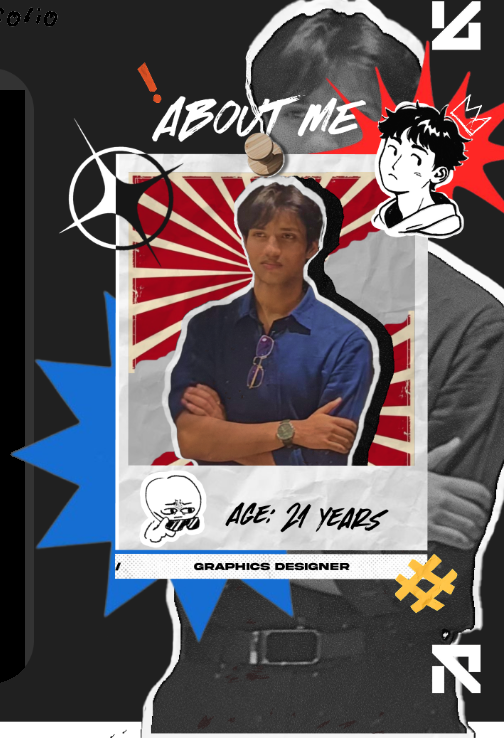
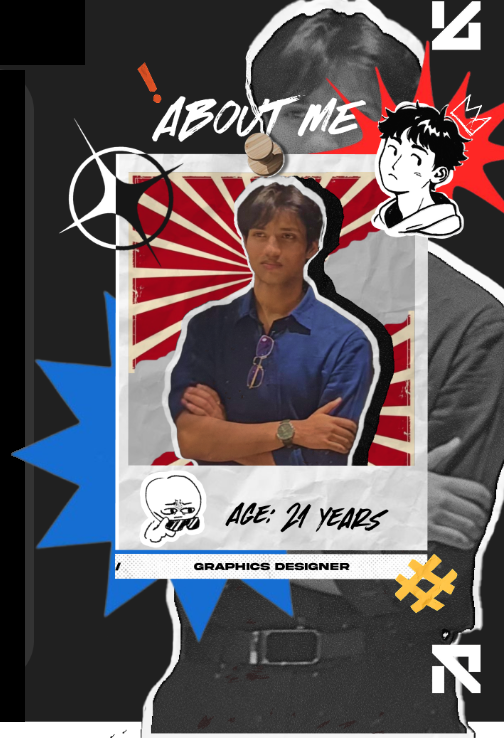
feat(about): add comic text bubble zoom on paragraph hover

Changed region(s): [[0.0, 0.0, 0.1786, 0.1247], [0.0, 0.9038, 0.0595, 0.9973]]

diff --git a/src/components/AboutSection.jsx b/src/components/AboutSection.jsx
@@ -1,5 +1,8 @@
-import aboutFullFrame from '../assets/about/about_full_frame.png'
-import aboutLeftCard from '../assets/about/about_left_card.png'
+import charThinking from '../assets/about/char_thinking_perfect.png'
+import charPointing from '../assets/about/char_pointing_perfect.png'
+import wordSince from '../assets/about/word_since.png'
+import wordAs from '../assets/about/word_as.png'
+import wordFlourishA from '../assets/about/word_flourish_a.png'
 import aboutRightCollage from '../assets/about/about_right_collage.png'
 
 export default function AboutSection() {
@@ -15,69 +18,205 @@ export default function AboutSection() {
         aria-hidden="true"
       />
 
-      <div className="relative w-full max-w-[1380px] mx-auto px-4 sm:px-6 md:px-8">
-        
-        {/* ================= DESKTOP / TABLET VIEW (md and up) ================= */}
-        <div className="hidden md:block w-full">
-          <div className="relative w-full max-w-[1240px] mx-auto aspect-[1024/768] rounded-[28px] lg:rounded-[36px] overflow-hidden shadow-[0_24px_70px_rgba(0,0,0,0.9)] border border-white/10 group transition-all duration-500 hover:border-white/20">
-            <img
-              src={aboutFullFrame}
-              alt="About Me - Om, UI/UX Designer, Illustrator, Artist based in Shillong, India. Age 21 Years."
-              className="w-full h-full object-cover lg:object-contain object-center select-none pointer-events-none transition-transform duration-700 ease-out group-hover:scale-[1.01]"
-            />
-          </div>
+      <div className="relative w-full max-w-[1280px] mx-auto px-4 sm:px-6 md:px-8">
+        {/* Top 'portfolio' cursive text */}
+        <div className="flex justify-center mb-6 sm:mb-8 md:mb-10">
+          <span className="font-script text-3xl sm:text-4xl md:text-5xl font-normal leading-none tracking-wide text-white lowercase drop-shadow-[0_2px_10px_rgba(0,0,0,0.9)]">
+            portfolio
+          </span>
         </div>
 
-        {/* ================= MOBILE VIEW (Stacked column) ================= */}
-        <div className="md:hidden flex flex-col items-center gap-8 w-full max-w-[500px] mx-auto">
-          {/* Top 'portfolio' cursive text */}
-          <div className="flex justify-center">
-            <span className="font-script text-3xl font-normal leading-none tracking-wide text-white lowercase drop-shadow-[0_2px_8px_rgba(0,0,0,0.8)]">
-              portfolio
-            </span>
+        {/* ================= MAIN ABOUT CONTENT GRID ================= */}
+        <div className="grid grid-cols-1 lg:grid-cols-12 gap-8 lg:gap-4 items-center">
+          
+          {/* LEFT INTERACTIVE CARD (Figma Frame Left Side) */}
+          <div className="lg:col-span-6 xl:col-span-6 w-full flex justify-center lg:justify-end z-10">
+            <div className="relative w-full max-w-[530px] bg-[#333333] rounded-[28px] sm:rounded-[36px] p-6 sm:p-8 lg:p-9 shadow-[0_24px_60px_rgba(0,0,0,0.9)] border border-white/10 flex flex-col justify-between">
+              
+              {/* Card Header: Title & Thinking Character */}
+              <div className="flex items-start justify-between gap-2">
+                <div className="flex flex-col">
+                  <h2 className="text-4xl sm:text-5xl lg:text-[54px] font-black text-white leading-none tracking-tight font-sans uppercase">
+                    Hello,
+                  </h2>
+                  <div className="flex items-baseline gap-2 mt-1 sm:mt-2">
+                    <span className="text-3xl sm:text-4xl lg:text-[44px] font-black text-white font-sans">
+                      i'm
+                    </span>
+                    <span className="text-3xl sm:text-4xl lg:text-[44px] font-black text-[#5694FD] font-sans tracking-tight">
+                      OM.
+                    </span>
+                  </div>
+                </div>
+
+                {/* Manga Thinking / Scheming Character */}
+                <div className="w-[115px] sm:w-[135px] lg:w-[150px] shrink-0 -mt-3 -mr-2 transition-transform duration-300 hover:scale-105 select-none">
+                  <img
+                    src={charThinking}
+                    alt="Scheming anime character thinking with hands folded"
+                    className="w-full h-auto object-contain pointer-events-none drop-shadow-md"
+                  />
+                </div>
+              </div>
+
+              {/* Tagline / Subtitle (Interactive Comic Bubble) */}
+              <div className="comic-bubble comic-bubble-tail-left p-3 sm:p-3.5 -mx-1 sm:-mx-2 mt-2 rounded-2xl cursor-default group">
+                <div className="flex items-center gap-2 text-xs sm:text-sm text-neutral-200 font-fredoka font-normal">
+                  <img
+                    src={wordFlourishA}
+                    alt="a"
+                    className="w-[14px] h-[16px] object-contain inline-block shrink-0 -mb-0.5"
+                  />
+                  <span>
+                    ui-ux designer / illustrator / artist based in{' '}
+                    <strong className="font-semibold text-white">SHILLONG , INDIA.</strong>
+                  </span>
+                </div>
+              </div>
+
+              {/* Middle Section: Pointing Character (left) + Paras 1 & 2 (right) */}
+              <div className="grid grid-cols-12 gap-3 sm:gap-4 items-center my-3 sm:my-4">
+                {/* Pointing Character */}
+                <div className="col-span-4 flex justify-center items-center">
+                  <img
+                    src={charPointing}
+                    alt="Anime boy character pointing index finger up with enthusiasm"
+                    className="w-full max-w-[115px] sm:max-w-[130px] h-auto object-contain select-none pointer-events-none transition-transform duration-300 hover:scale-105"
+                  />
+                </div>
+
+                {/* Description Paragraph 1 & 2 with Comic Bubble Zoom */}
+                <div className="col-span-8 flex flex-col gap-2.5 sm:gap-3">
+                  {/* Paragraph 1 */}
+                  <div
+                    tabIndex={0}
+                    role="article"
+                    aria-label="Description paragraph 1"
+                    className="comic-bubble comic-bubble-tail-left p-3 sm:p-3.5 rounded-2xl cursor-default text-xs sm:text-[13px] lg:text-sm text-neutral-200 font-fredoka font-light leading-snug outline-none focus:scale-105 focus:bg-[#222428] focus:border-white focus:shadow-[4px_4px_0px_#000]"
+                  >
+                    <div className="flex items-baseline gap-1.5 flex-wrap">
+                      <img
+                        src={wordSince}
+                        alt="SINCE"
+                        className="h-[18px] sm:h-[20px] object-contain inline-block align-baseline -mb-1 shrink-0"
+                      />
+                      <span>
+                        8th grade my knack for{' '}
+                        <strong className="font-bold text-white">illustrations</strong> ,{' '}
+                        <strong className="font-bold text-white">character design</strong> , and
+                        anything related to design has been constantly growing.
+                      </span>
+                    </div>
+                  </div>
+
+                  {/* Paragraph 2 */}
+                  <div
+                    tabIndex={0}
+                    role="article"
+                    aria-label="Description paragraph 2"
+                    className="comic-bubble comic-bubble-tail-left p-3 sm:p-3.5 rounded-2xl cursor-default text-xs sm:text-[13px] lg:text-sm text-neutral-200 font-fredoka font-light leading-snug outline-none focus:scale-105 focus:bg-[#222428] focus:border-white focus:shadow-[4px_4px_0px_#000]"
+                  >
+                    <span>
+                      For a long time I was into character designing , then started exploring other
+                      areas , such as (
+                      <strong className="font-bold text-white">
+                        Ui-Ux design / graphic design / illustrations / video editing / 3d design / product design / etc
+                      </strong>
+                      ).
+                    </span>
+                  </div>
+                </div>
+              </div>
+
+              {/* Bottom Section: Paragraphs 3, 4, 5 (Each with Comic Text Bubble Zoom) */}
+              <div className="flex flex-col gap-2.5 sm:gap-3 mt-1">
+                {/* Paragraph 3 */}
+                <div
+                  tabIndex={0}
+                  role="article"
+                  aria-label="Description paragraph 3"
+                  className="comic-bubble comic-bubble-tail-left p-3 sm:p-3.5 rounded-2xl cursor-default text-xs sm:text-[13px] lg:text-sm text-neutral-200 font-fredoka font-light leading-snug outline-none focus:scale-105 focus:bg-[#222428] focus:border-white focus:shadow-[4px_4px_0px_#000]"
+                >
+                  <div className="flex items-baseline gap-2">
+                    <img
+                      src={wordAs}
+                      alt="as"
+                      className="h-[16px] sm:h-[18px] object-contain inline-block align-baseline -mb-0.5 shrink-0"
+                    />
+                    <span>
+                      a new and curious artist, I'm always exploring different styles and mediums , it's
+                      how I learn and evolve.
+                    </span>
+                  </div>
+                </div>
+
+                {/* Paragraph 4 */}
+                <div
+                  tabIndex={0}
+                  role="article"
+                  aria-label="Description paragraph 4"
+                  className="comic-bubble comic-bubble-tail-left p-3 sm:p-3.5 rounded-2xl cursor-default text-xs sm:text-[13px] lg:text-sm text-neutral-200 font-fredoka font-light leading-snug outline-none focus:scale-105 focus:bg-[#222428] focus:border-white focus:shadow-[4px_4px_0px_#000]"
+                >
+                  <span>
+                    I love experimenting, taking inspiration from everywhere, and turning simple
+                    ideas into something visual and expressive.
+                  </span>
+                </div>
+
+                {/* Paragraph 5 */}
+                <div
+                  tabIndex={0}
+                  role="article"
+                  aria-label="Description paragraph 5"
+                  className="comic-bubble comic-bubble-tail-left p-3 sm:p-3.5 rounded-2xl cursor-default text-xs sm:text-[13px] lg:text-sm text-neutral-200 font-fredoka font-light leading-snug outline-none focus:scale-105 focus:bg-[#222428] focus:border-white focus:shadow-[4px_4px_0px_#000]"
+                >
+                  <span>
+                    I'm also really into sports and staying active. It helps me keep my energy up
+                    and my creativity flowing. I like to think the discipline from sports shows up
+                    in my art too.
+                  </span>
+                </div>
+              </div>
+
+            </div>
           </div>
 
-          {/* Left Card */}
-          <div className="w-full rounded-[28px] overflow-hidden shadow-[0_16px_40px_rgba(0,0,0,0.8)] border border-white/10">
-            <img
-              src={aboutLeftCard}
-              alt="Hello, i'm OM. UI/UX designer, illustrator, artist based in Shillong, India."
-              className="w-full h-auto object-contain select-none pointer-events-none"
-            />
+          {/* RIGHT COLLAGE (Figma Frame Right Side) */}
+          <div className="lg:col-span-6 xl:col-span-6 w-full flex justify-center lg:justify-start lg:-ml-6 xl:-ml-10 z-0">
+            <div className="relative w-full max-w-[500px] lg:max-w-[540px] drop-shadow-[0_24px_60px_rgba(0,0,0,0.9)] transition-transform duration-500 hover:scale-[1.01]">
+              <img
+                src={aboutRightCollage}
+                alt="About Me - Om, 21 years old Graphics Designer collage with Polaroid photo, sunburst rays, stickers and anime doodles"
+                className="w-full h-auto object-contain select-none pointer-events-none"
+              />
+            </div>
           </div>
 
-          {/* Right Collage */}
-          <div className="w-full drop-shadow-[0_20px_50px_rgba(0,0,0,0.9)]">
-            <img
-              src={aboutRightCollage}
-              alt="About Me - Om, 21 years old Graphics Designer collage"
-              className="w-full h-auto object-contain select-none pointer-events-none"
-            />
-          </div>
         </div>
 
-        {/* ================= SCREEN READER / SEO METADATA ================= */}
+        {/* Screen Reader & SEO Metadata */}
         <div className="sr-only">
           <h2>About Me — Hello, i'm OM.</h2>
-          <p>UI/UX designer, illustrator, and artist based in Shillong, India.</p>
+          <p>ui-ux designer / illustrator / artist based in SHILLONG , INDIA.</p>
           <p>
-            Since 8th grade my knack for illustrations, character design, and anything
-            related to design has been constantly growing.
+            SINCE 8th grade my knack for illustrations , character design , and anything related to
+            design has been constantly growing.
           </p>
           <p>
-            For a long time I was into character designing, then started exploring other
-            areas, such as UI/UX design, graphic design, illustrations, video editing,
-            3D design, and product design.
+            For a long time I was into character designing , then started exploring other areas ,
+            such as (Ui-Ux design / graphic design / illustrations / video editing / 3d design / product design / etc).
           </p>
           <p>
-            As a new and curious artist, I'm always exploring different styles and mediums;
-            it's how I learn and evolve. I love experimenting, taking inspiration from
-            everywhere, and turning simple ideas into something visual and expressive.
+            as a new and curious artist, I'm always exploring different styles and mediums , it's how
+            I learn and evolve.
           </p>
           <p>
-            I'm also really into sports and staying active. It helps me keep my energy up
-            and my creativity flowing. I like to think the discipline from sports shows up
-            in my art too.
+            I love experimenting, taking inspiration from everywhere, and turning simple ideas into
+            something visual and expressive.
+          </p>
+          <p>
+            I'm also really into sports and staying active. It helps me keep my energy up and my
+            creativity flowing. I like to think the discipline from sports shows up in my art too.
           </p>
           <p>Profile: Age 21 Years | Graphics Designer</p>
         </div>

diff --git a/src/index.css b/src/index.css
@@ -153,3 +153,64 @@
 .animate-spin-slow {
   animation: spin-slow 20s linear infinite;
 }
+
+/* Comic text bubble zoom effect */
+.comic-bubble {
+  position: relative;
+  border-radius: 1rem;
+  border: 2px solid transparent;
+  transition: transform 0.28s cubic-bezier(0.34, 1.56, 0.64, 1),
+              box-shadow 0.25s ease,
+              background-color 0.2s ease,
+              border-color 0.2s ease;
+  will-change: transform;
+  transform-origin: center left;
+  z-index: 10;
+}
+
+.comic-bubble:hover {
+  transform: scale(1.05);
+  background-color: #222428;
+  border-color: #ffffff;
+  box-shadow: 4px 4px 0px #000000, 0 16px 36px rgba(0, 0, 0, 0.85);
+  z-index: 30;
+}
+
+/* Comic bubble tail for pointing character (left-pointing tail) */
+.comic-bubble-tail-left::before {
+  content: '';
+  position: absolute;
+  left: -11px;
+  top: 50%;
+  transform: translateY(-50%) scale(0);
+  width: 0;
+  height: 0;
+  border-top: 8px solid transparent;
+  border-bottom: 8px solid transparent;
+  border-right: 11px solid #ffffff;
+  transition: transform 0.25s cubic-bezier(0.34, 1.56, 0.64, 1);
+  pointer-events: none;
+}
+
+.comic-bubble-tail-left:hover::before {
+  transform: translateY(-50%) scale(1);
+}
+
+.comic-bubble-tail-left::after {
+  content: '';
+  position: absolute;
+  left: -8px;
+  top: 50%;
+  transform: translateY(-50%) scale(0);
+  width: 0;
+  height: 0;
+  border-top: 6px solid transparent;
+  border-bottom: 6px solid transparent;
+  border-right: 9px solid #222428;
+  transition: transform 0.25s cubic-bezier(0.34, 1.56, 0.64, 1);
+  pointer-events: none;
+}
+
+.comic-bubble-tail-left:hover::after {
+  transform: translateY(-50%) scale(1);
+}
